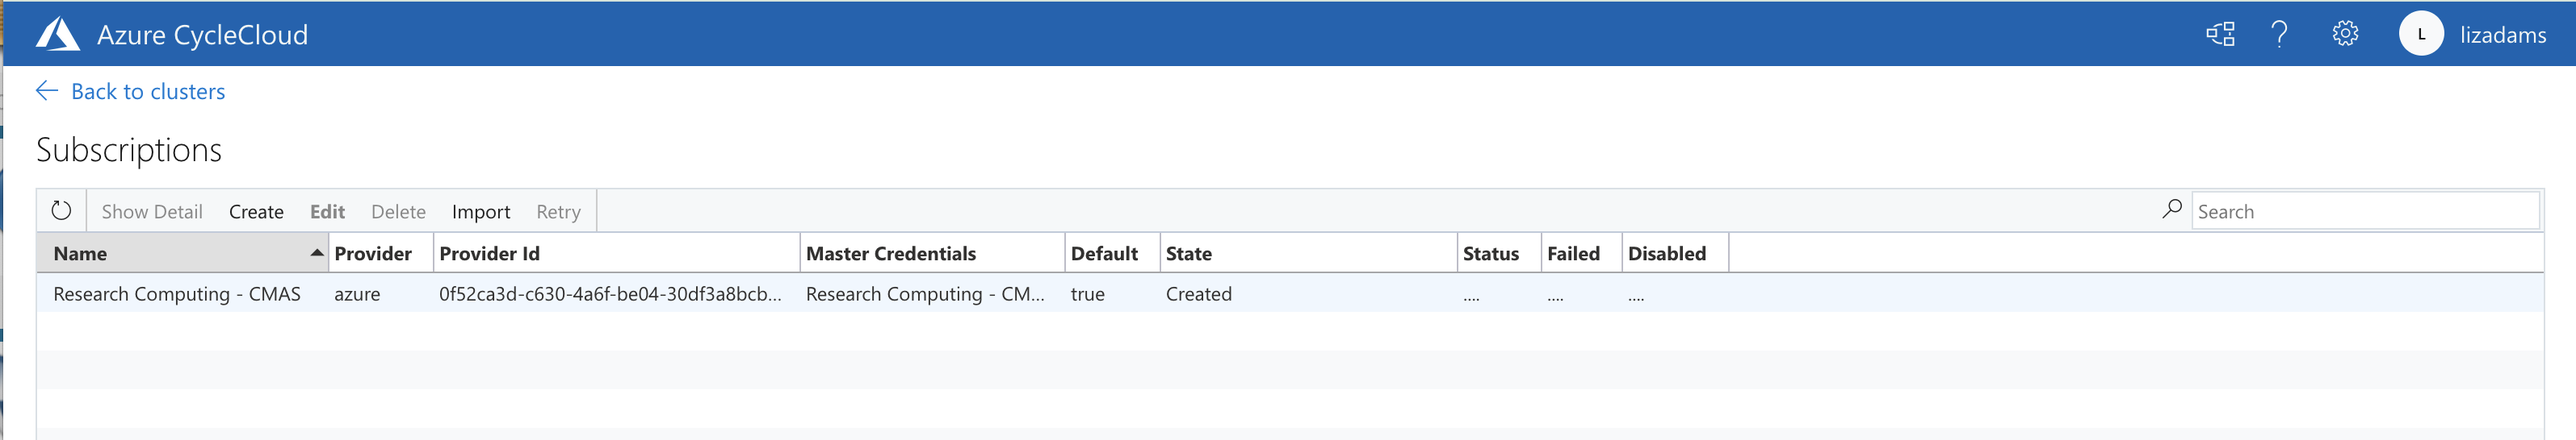
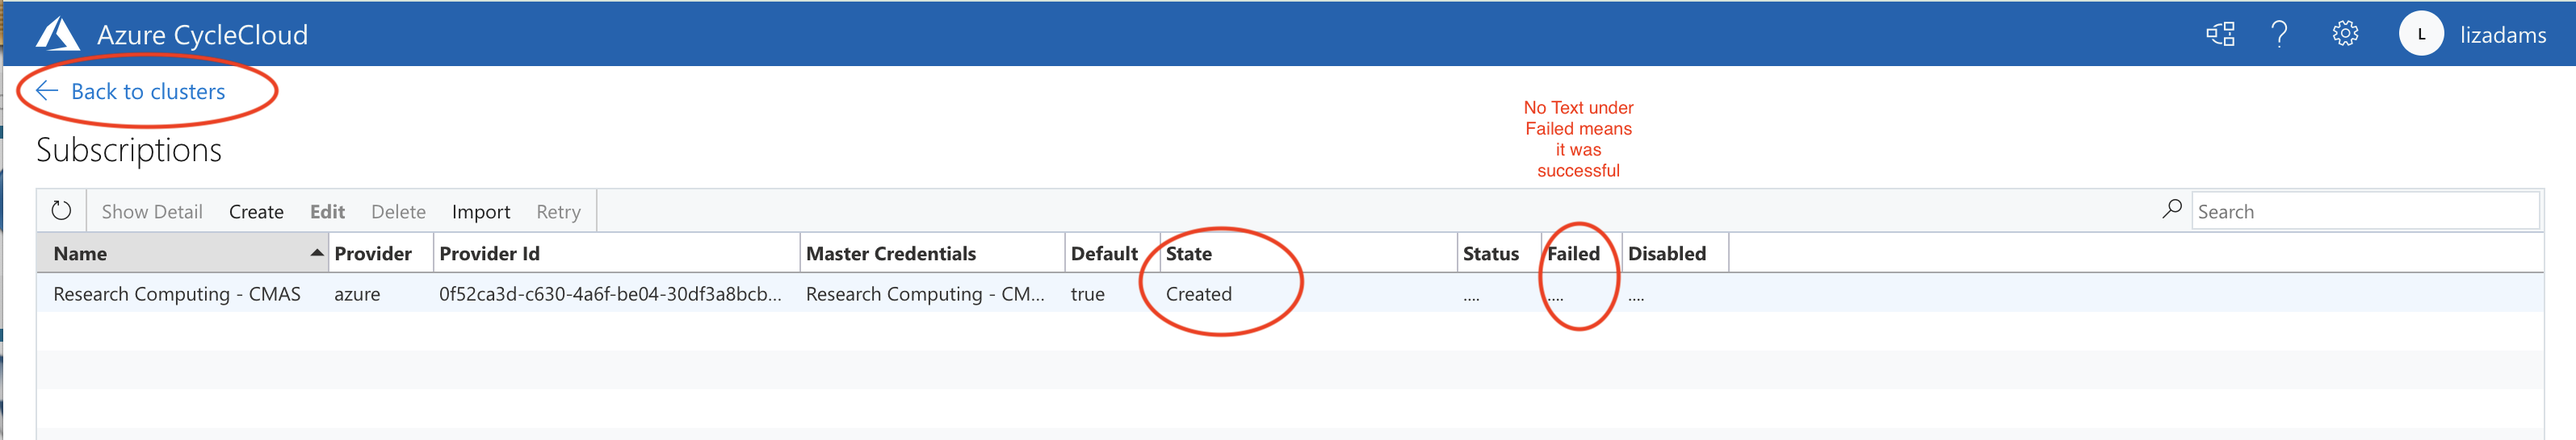
Update

diff --git a/docs/user_guide_cyclecloud/install/azure-cyclecloud-cluster.md b/docs/user_guide_cyclecloud/install/azure-cyclecloud-cluster.md
@@ -169,71 +169,75 @@ The Subscriptions page will show if the cluster subscription was created. You ma
 
 When it says created, with nothing under the Failed column, then it was successful, click Back to Clusters.
 
-Figure 19. Azure CycleCloud Create a New Cluster - Select SLURM workload Manager
+Figure 19. Check Cluster Creation Status in Subsriptions Table
+
+![Check Cluster Creation Status in Subsriptions Table](Azure_CycleCloud_Subscription_Created_Successfully)
+
+Figure 20. Azure CycleCloud Create a New Cluster - Select SLURM workload Manager
 
 ![Azure CycleCloud Create Slurm Cluster](../../azure_web_interface_images/AzureCycleCloud-CreateSlurmCluster.png)
 
-Figure 20. Azure CycleCloud New Slurm Cluster - add a Cluster Name
+Figure 21. Azure CycleCloud New Slurm Cluster - add a Cluster Name
 
 Example name: CMAQSlurmHC44rsAlmaLinux
 
-Figure 21. 
+Figure 22. 
 Azure CycleCloud HPC Queue Select Machine
 In the Min Cores box, input 44
 In the Compute Type, select High Performance Compute
 Select HC44rs, then select Apply
 ![Azure CycleCloud HPC Queue Select Machine](../../azure_web_interface_images/Azure_CycleCloud_Select_A_Machine_Type_HC44rs.png)
 
-Figure 22.
+Figure 23.
 Select Auto-Scaling Max HPC Cores to be a multiple of the number of cpus available on the compute node.  For HC44rs for a maximum of 5 nodes, it would be 44 x 5 = 220 Max HPC Cores
 Choose the Networking SubnetID that was created for the CycleCloud.
 
 
 
-Figure 23. 
+Figure 24. 
 Azure CycleCloud HPC VM Type Confirmed
 ![Azure CycleCloud HPC VM Type Confirmed](../../azure_web_interface_images/Azure_CycleCloud_HPC_VM_TYPE_HC44rs.png)
 
-Figure 24.
+Figure 25.
 Azure CycleCloud Network Attached Storage
 Change the size from 100 GB of network attached storage to 1000 GB of network attached storage for the /shared directory, where CMAQ and the input data will be installed.
 ![Azure CycleCloud Network Attached Storage](../../azure_web_interface_images/Azure_CycleCloud_Network_Attached_Storage.png)
 
 
-Figure 25.
+Figure 26.
 Azure CycleCloud Select OS and Uncheck Name as HostName
 ![Azure CycleCloud Select OS](../../azure_web_interface_images/CycleCloud_Application_Advanced_Settings.png)
 
-Figure 26.
+Figure 27.
 Azure CycleCloud Create Cluster
 
-Figure 27. Welcome to Azure CycleCloud
+Figure 28. Welcome to Azure CycleCloud
 
 ![Welcome to Azure Cycle Cloud](../../azure_web_interface_images/Azure_CycleCloud_Welcome_to.png)
 
-Figure 28. Azure Cycle Cloud Create New Slurm Cluster
+Figure 29. Azure Cycle Cloud Create New Slurm Cluster
 
 ![Azure Cycle Cloud Create New Slurm Cluster](../../azure_web_interface_images/Azure_CycleCloud_New_Slurm_Cluster.png)
 
-Figure 29. Azure Cycle Cloud Subscriptions Registering Service Providers
+Figure 30. Azure Cycle Cloud Subscriptions Registering Service Providers
 ![Azure Cycle Cloud Subscriptions Registering Service Providers](../../azure_web_interface_images/Azure_CycleCloud_Subscriptions_Registering_Service_Providers_Status.png)
 
-Figure 30. Azure cycle Cloud Subscription Created Successsfully
+Figure 31. Azure cycle Cloud Subscription Created Successsfully
 ![Azure cycle Cloud Subscription Created Successsfully](../../azure_web_interface_images/Azure_CycleCloud_Subscription_Created_Successfully.png)
 
-Figure 31. Azure CycleCloud Select Machine Type for HPC Node
+Figure 32. Azure CycleCloud Select Machine Type for HPC Node
 ![Azure CycleCloud Select Machine Type for HPC Node](../../azure_web_interface_images/Azure_CycleCloud_Select_Machine_Type_for_HPC_node_filter_by_44_cores.png)
 
-Figure 32. Azure Cycle Cloud Required Settings HPC VM Select HC44rs
+Figure 33. Azure Cycle Cloud Required Settings HPC VM Select HC44rs
 ![Azure Cycle Cloud Required Settings HPC VM Select HC44rs](../../azure_web_interface_images/AzureCycleCloud_Required_Settings_HPC_VM_Select_HC44rs.png)
 
-Figure 33. Azure cycle cloud Nodes Tab Shows Status of Scheduler
+Figure 34. Azure cycle cloud Nodes Tab Shows Status of Scheduler
 ![Azure cycle cloud Nodes Tab Shows Status of Scheduler](../../azure_web_interface_images/AzureCycleCloud_Nodes_Tab_Shows_Status_of_Scheduler.png)
 
-Figure 34. Azure Cycle Cloud Network Attached Storage - Change to 1 TB
+Figure 35. Azure Cycle Cloud Network Attached Storage - Change to 1 TB
 ![Azure Cycle Cloud Network Attached Storage - Change to 1 TB](../../azure_web_interface_images/AzureCycleCloud_Network_Attached_Storage_NFS_Size_Changed_to_1TB.png)
 
-Figure 35. Azure Cycle Cloud Cluster Arrays Tab Shows HPC Queue Machine Type
+Figure 36. Azure Cycle Cloud Cluster Arrays Tab Shows HPC Queue Machine Type
 ![Azure Cycle Cloud Cluster Arrays Tab Shows HPC Queue Machine Type](../../azure_web_interface_images/AzureCycleCloud_Cluster_Arrays_Tab_Shows_hpc_queue_machine_type.png)
 
 
@@ -253,7 +257,7 @@ Run a bash script for 1 minute by submitting to the hpc node using srun.
 
 You should see the hpc acquiring a single node.
 
-Figure 36. Azure CycleCloud Acquiring Compute Node after running srun command.
+Figure 37. Azure CycleCloud Acquiring Compute Node after running srun command.
 
 [Azure CycleCloud Acquiring Compute Node](../../azure_web_interface_images/Azure_CycleCloud_srun_test_acquiring_hpc_hc44rs_node.png)
 
@@ -294,7 +298,7 @@ Job Id:	2
 	Resource_List.ncpus = 2
 ```
 
-Figure 37. Azure Cycle Cloud Showing usage of Scheduler Node and Compute Nodes for Srun command
+Figure 38. Azure Cycle Cloud Showing usage of Scheduler Node and Compute Nodes for Srun command
 ![Azure Cycle Cloud Showing usage of Scheduler Node and Compute Nodes for Srun command](../../azure_web_interface_images/AzureCycleCloud_Show_Scheduler_and_Compute_Node_Usage.png)
 
 
